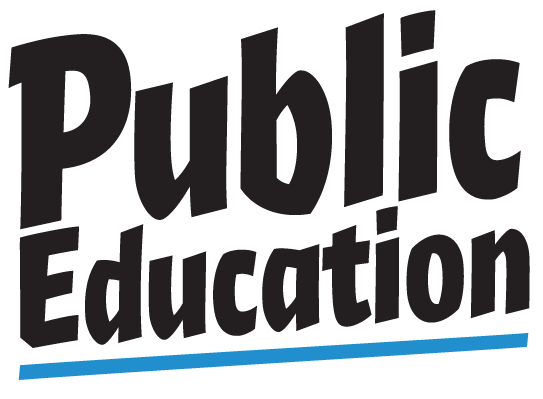
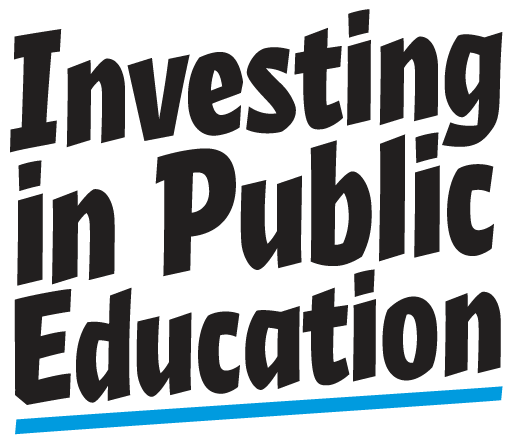
Adding Issues
• College for All
• Investing in Public Education
• Marijuana Legalization

diff --git a/src/translations/es/index.js b/src/translations/es/index.js
@@ -63,7 +63,7 @@ const localizedStrings = {
       {
         title: 'Medicare for All',
         text: [
-          oneLine(`In the 1970s, when other countries around the world had implemented or were implementing national health insurance plans, we put our health in the hands of private enterprise. Decades, and billions of lobbying dollars, later, the results are clear: the United States spends far more on healthcare than any other nation, with significantly worse outcomes — including the highest maternal mortality rate in the developed world.`),
+          oneLine(`In the 1970s, when other countries around the world had implemented or were implementing national health insurance plans, we put our health in the hands of private enterprise. Decades and billions of lobbying dollars later, the results are clear: the United States spends far more on healthcare than any other nation, with significantly worse outcomes — including the highest maternal mortality rate in the developed world.`),
           oneLine(`Executive salaries and compensation packages in the pharmaceutical and health insurance industries are astronomical, while medical bills steadfastly remain the leading cause of bankruptcy in this country. Over 30 million Americans remain uninsured, while tens of millions with coverage still face inadequate or denied care. Healthcare is a right, not a privilege, and it’s time to focus on the American people and their health over the profits of billion-dollar corporations.`),
         oneLine(`Mel supports Medicare for All — a federal universal single-payer program. No longer will our health be weighed against the balance sheets of massive corporations; with a single-payer program, all residents of the United States will be covered for their medical services, including doctor, hospital, preventive, long-term care, mental health, reproductive health care, dental, vision, prescription drug and medical supply costs. Eliminating co-pays, premiums, and deductibles means that lower- and middle-income Americans will no longer have to weigh the cost of paying for life-saving medicine against feeding their families.`)],
       },
@@ -72,9 +72,9 @@ const localizedStrings = {
 	    text: [
 	      oneLine(`Mel understands that women’s issues aren’t singular and are affected by the intersection of policy and social norms. Smart policy across multiple areas is needed to correct for the disproportionate burden our society places on women.`),
 	      oneLine(`Mel supports the unrestricted right to reproductive health care. Conservative state legislatures have stretched the boundaries of federal law and unleashed a cornucopia of impediments to make it functionally and materially impossible, if not technically illegal, to obtain essential healthcare. Mel will work to codify the protections of Roe v. Wade, and use federal legislation to protect pregnant people and healthcare workers. Mel will work to repeal the Hyde Amendment, and supports the EACH Woman Act of 2019, which aims to ensure affordable abortion coverage and care for all.`),
-		  oneLine(`Each year, women are forced to leave approximately $28.9 billion on the table, in order to take off work in order to care for aging parents. When Mel’s abuela got ill in her final year of life, his mom could not afford to take off work and juggled being a night-shift nurse with caring for her ailing parents. Mel’s desire to introduce a Golden Years Security Act was inspired by this reality, one that is not uncommon for women throughout the country.`),
-		  oneLine(`Mel worked for an organization that served formerly incarcerated women by connecting them with higher education, and maintaining wrap around services throughout their career. Mel knows that the challenges currently and formerly incarcerated women face are unique, which is why his Criminal Justice Reform positions aim to address the unique needs women face in our broken system.`),
-		  oneLine(`As technological innovation continues to rapidly reshape the modern workforce, the jobs that are most likely to be replaced by automation first are those most often held by women and people of color. That’s why Mel supports funding experiments in Universal Basic Income which would provide support as the nature of work is redefined. As a stay-at-home parent Mel knows first-hand that caretaking is an uncompensated full-time job essential to the health of our economy and society. Caretaking is meaningful labor, and should be recognized as such. While more mothers are in the labor force today than ever before, they are also spending more time on childcare as well, which is why Mel supports Universal Childcare to ease the burden on families who don’t have a choice between careers and raising a family.`),		
+		    oneLine(`Each year, women are forced to leave approximately $28.9 billion on the table, in order to take off work in order to care for aging parents. When Mel’s abuela got ill in her final year of life, his mom could not afford to take off work and juggled being a night-shift nurse with caring for her ailing parents. Mel’s desire to introduce a Golden Years Security Act was inspired by this reality, one that is not uncommon for women throughout the country.`),
+		    oneLine(`Mel worked for an organization that served formerly incarcerated women by connecting them with higher education, and maintaining wrap around services throughout their career. Mel knows that the challenges currently and formerly incarcerated women face are unique, which is why his Criminal Justice Reform positions aim to address the unique needs women face in our broken system.`),
+		    oneLine(`As technological innovation continues to rapidly reshape the modern workforce, the jobs that are most likely to be replaced by automation first are those most often held by women and people of color. That’s why Mel supports funding experiments in Universal Basic Income which would provide support as the nature of work is redefined. As a stay-at-home parent Mel knows first-hand that caretaking is an uncompensated full-time job essential to the health of our economy and society. Caretaking is meaningful labor, and should be recognized as such. While more mothers are in the labor force today than ever before, they are also spending more time on childcare as well, which is why Mel supports Universal Childcare to ease the burden on families who don’t have a choice between careers and raising a family.`),		
 	    ]
 	  },
       {
@@ -82,15 +82,23 @@ const localizedStrings = {
         text: [
           oneLine(`Rapid technological innovation has already changed American employment. Advances in automation, artificial intelligence and deep machine learning, continues to eviscerate opportunities for work and is contributing to an already-growing gig economy. As temporary, part-time, and non-traditional jobs redefine the labor market, Mel believes that we need to enable people to live better lives, not leave them to struggle with wage stagnation and income inequality.`),
           oneLine(`Investing in Universal Basic Income experiments can reduce poverty, begin to address the race and gender wealth gap, create opportunities for new types of work, and reinforce a sense of dignity in people’s lives. A basic level of financial stability gives people the freedom to leave a job that doesn’t treat them well, to pursue opportunities such as entrepreneurship, or to the freedom to choose a new, more fulfilling career that may be non-traditional. UBI is not only a necessity to prepare for the continuing transformation of work, but also for the millions of Americans who currently do not have financial security to lead happy and healthy lives.`),
-        oneLine(`As a stay at home dad and the son of a single mom, Mel understands how parenthood can be an unrecognized form of labor. He believes Universal Basic Income is a way to value all types work and Mel will only champion UBI policies that will work in tandem with existing social safety nets and increased minimum wage standards. `),
+          oneLine(`As a stay at home dad and the son of a single mom, Mel understands how parenthood can be an unrecognized form of labor. He believes Universal Basic Income is a way to value all types work and Mel will only champion UBI policies that will work in tandem with existing social safety nets and increased minimum wage standards. `),
         ]
       },
       {
-        title: 'Public Education',
+        title: 'Investing in Public Education',
+        text: [
+          oneLine(`Education is the cornerstone of our society; a quality education gives students access to opportunity and enables economic mobility. For too long, we’ve failed our public schools; Mel believes that we need to properly invest in free public education from Pre-K on up. But it’s not just about throwing money at the problem, it’s about identifying successful outcomes and investing in the people that ensure them. From increasing teacher pay, to free childcare, Mel recognizes that educational outcomes are not just about schools, they are also dependent on the ability of working-class people to provide for their families and build a good life. The ability of working-class families to live the lives they deserve has been sacrificed in favor of tax breaks for the wealthy, and disinvestment in our public schools is part of that same trend.`),
+          oneLine(`Teachers have gone on strike across the country, rallying for a deeper investment in public education. These are teachers who are underpaid, overworked, and paying for needed school supplies out of their own pockets because our country places too little value on their work and on the well-being of the children that they are educating. In 2019, we continue to see segregation in our K–12 schools, and with students of color and students in underserved areas suffering as a result. Mel believes that our teachers should be well compensated, that our underserved students deserve a deeper investment in their future, and that the income of a child’s parent, or their race, should not determine the quality of their education.`),
+          oneLine(`If elected, Mel will champion federal investment in our public schools, work to increase Title I funding to ensure underserved schools get the funding they need, fully fund the Department of Education's Office of Civil Rights, work to end student lunch debt and make sure all of our kids have the nourishment they need to learn, increase access to vital to ESL education, and fund school transportation.`),
+          oneLine(`Charter schools lack accountability and have drained funding from our public education system, having a disproportionate negative impact on communities of color. Mel supports a ban on for-profit charter schools as well as the NAACP’s moratorium on public funds being used to expand the charter system, until their impact has been fully audited. Furthermore, non-profit charter schools should comply with the same oversight requirements as public schools, increase parent involvement, and support efforts for teachers to unionize.`),
+        ]
+      },
+      {
+        title: 'College for All',
         text: [
           oneLine(`Mel believes, like the U.N. does, that education is a human right. Tuition and fees at public universities have ballooned over the past 30 years, leaving an entire generation of young people with an unfair choice: sacrifice higher education or take out tens of thousands of dollars in student debt. The promise of higher pay has created a vicious cycle in which students take out increasingly larger loans only to realize that median hourly wages for college graduates have not kept up.`),
-          oneLine(`Mel will fight for public colleges, universities, and trade schools throughout the country to be tuition-free. He also supports a one-time policy of all student debt cancellation, including both federal and private sector student loans. Mel will support legislation the requires the Department of Education to forgive loans guaranteed by the U.S. government, while the federal government directly purchases private student loan debt from private banks and lenders.`),
-        oneLine(`Mel also believes that we need to properly invest in free public education from Pre-K on up. But it’s not just about throwing money at the problem, it’s about identifying successful outcomes and investing in the people that ensure them. From increasing teacher pay, to free childcare, Mel recognizes that educational outcomes are not just about schools.`),
+          oneLine(`Mel will fight for public colleges, universities, and trade schools throughout the country to be tuition-free. He also supports a one-time policy of all student debt cancellation, including both federal and private sector student loans. Mel will support legislation the requires the Department of Education to forgive loans guaranteed by the U.S. government, while the federal government directly purchases private student loan debt from private banks and lenders.`), 
         ]
       },
       {
@@ -125,6 +133,12 @@ const localizedStrings = {
         text: [
           oneLine(`Another priority for Mel is the repeal of SESTA-FOSTA. This law was intended to address human trafficking, but in practice, has only made the situation worse by driving sex workers into the shadows while making it more difficult to combat legitimate traffickers. Sex work is work.`),
           oneLine(`Mel believes that we need to decriminalize (as opposed to legalize) sex work which has led to the disproportionate targeting and prosecution of migrant workers and those in the trans community. Repealing SESTA-FOSTA and bringing sex workers into the policymaking conversation will lead to effective human trafficking legislation that is informed by those closest to the problem, while ensuring that those who rely on selling or trading sex are not prosecuted for simply trying to survive.`),
+        ]
+      },
+      {
+        title: 'Marijuana Legalization',
+        text: [
+          oneLine(`Mel fully supports legalizing marijuana and vacating and expunging all past marijuana-related convictions. Legalized marijuana revenue should be reinvested in the communities that have been most adversely impacted by the War on Drugs and racist broken windows policing. African-Americans are four times as likely to get arrested for marijuana as white Americans, despite both populations having similar rates of marijuana use. This has been a tool of mass incarceration, and a boon to the prison industrial complex. Corporations have profited off of the destruction of lives and communities through the criminalization of marijuana, and are now looking to profit off of its legalization. Impacted communities should be the first to benefit from legalization and the first in line to receive licenses and small business loans.`),
         ]
       },
       {

diff --git a/src/templates/issue-page.js b/src/templates/issue-page.js
@@ -14,9 +14,11 @@ import Women_bug from '../img/content/policies/Policy-Women.png'
 import UBI_bug from '../img/content/policies/Policy-UBI.png'
 import Banking_bug from '../img/content/policies/Policy-Banking.png'
 import Campaigns_bug from '../img/content/policies/Policy-CampaignFin.png'
+import College_bug from '../img/content/policies/Policy-College.png'
 import Education_bug from '../img/content/policies/Policy-Education.png'
 import Justice_bug from '../img/content/policies/Policy-Justice.png'
 import LGBT_bug from '../img/content/policies/Policy-LGBT.png'
+import Marijuana_bug from '../img/content/policies/Policy-Marijuana.png'
 import Peace_bug from '../img/content/policies/Policy-Peace.png'
 import Immigration_bug from '../img/content/policies/Policy-Immigration.png'
 import Privacy_bug from '../img/content/policies/Policy-Privacy.png'
@@ -62,7 +64,7 @@ const issuesDefaults = [
     id: 'm4a',
     bugurl: M4A_bug,
     text: [
-      oneLine(`In the 1970s, when other countries around the world had implemented or were implementing national health insurance plans, we put our health in the hands of private enterprise. Decades, and billions of lobbying dollars, later, the results are clear: the United States spends far more on healthcare than any other nation, with significantly worse outcomes — including the highest maternal mortality rate in the developed world.`),
+      oneLine(`In the 1970s, when other countries around the world had implemented or were implementing national health insurance plans, we put our health in the hands of private enterprise. Decades and billions of lobbying dollars later, the results are clear: the United States spends far more on healthcare than any other nation, with significantly worse outcomes — including the highest maternal mortality rate in the developed world.`),
       oneLine(`Executive salaries and compensation packages in the pharmaceutical and health insurance industries are astronomical, while medical bills steadfastly remain the leading cause of bankruptcy in this country. Over 30 million Americans remain uninsured, while tens of millions with coverage still face inadequate or denied care. Healthcare is a right, not a privilege, and it’s time to focus on the American people and their health over the profits of billion-dollar corporations.`),
 	  oneLine(`Mel supports Medicare for All — a federal universal single-payer program. No longer will our health be weighed against the balance sheets of massive corporations; with a single-payer program, all residents of the United States will be covered for their medical services, including doctor, hospital, preventive, long-term care, mental health, reproductive health care, dental, vision, prescription drug and medical supply costs. Eliminating co-pays, premiums, and deductibles means that lower- and middle-income Americans will no longer have to weigh the cost of paying for life-saving medicine against feeding their families.`),
     ]
@@ -90,13 +92,23 @@ const issuesDefaults = [
     ]
   },
   {
-    title: 'Public Education',
-    id: 'Edu',
+    title: 'Investing in Public Education',
+    id: 'Education',
     bugurl: Education_bug,
+    text: [
+      oneLine(`Education is the cornerstone of our society; a quality education gives students access to opportunity and enables economic mobility. For too long, we’ve failed our public schools; Mel believes that we need to properly invest in free public education from Pre-K on up. But it’s not just about throwing money at the problem, it’s about identifying successful outcomes and investing in the people that ensure them. From increasing teacher pay, to free childcare, Mel recognizes that educational outcomes are not just about schools, they are also dependent on the ability of working-class people to provide for their families and build a good life. The ability of working-class families to live the lives they deserve has been sacrificed in favor of tax breaks for the wealthy, and disinvestment in our public schools is part of that same trend.`),
+      oneLine(`Teachers have gone on strike across the country, rallying for a deeper investment in public education. These are teachers who are underpaid, overworked, and paying for needed school supplies out of their own pockets because our country places too little value on their work and on the well-being of the children that they are educating. In 2019, we continue to see segregation in our K–12 schools, and with students of color and students in underserved areas suffering as a result. Mel believes that our teachers should be well compensated, that our underserved students deserve a deeper investment in their future, and that the income of a child’s parent, or their race, should not determine the quality of their education.`),
+      oneLine(`If elected, Mel will champion federal investment in our public schools, work to increase Title I funding to ensure underserved schools get the funding they need, fully fund the Department of Education's Office of Civil Rights, work to end student lunch debt and make sure all of our kids have the nourishment they need to learn, increase access to vital to ESL education, and fund school transportation.`),
+      oneLine(`Charter schools lack accountability and have drained funding from our public education system, having a disproportionate negative impact on communities of color. Mel supports a ban on for-profit charter schools as well as the NAACP’s moratorium on public funds being used to expand the charter system, until their impact has been fully audited. Furthermore, non-profit charter schools should comply with the same oversight requirements as public schools, increase parent involvement, and support efforts for teachers to unionize.`),
+    ]
+  },
+  {
+    title: 'College for All',
+    id: 'College',
+    bugurl: College_bug,
     text: [
       oneLine(`Mel believes, like the U.N. does, that education is a human right. Tuition and fees at public universities have ballooned over the past 30 years, leaving an entire generation of young people with an unfair choice: sacrifice higher education or take out tens of thousands of dollars in student debt. The promise of higher pay has created a vicious cycle in which students take out increasingly larger loans only to realize that median hourly wages for college graduates have not kept up.`),
       oneLine(`Mel will fight for public colleges, universities, and trade schools throughout the country to be tuition-free. He also supports a one-time policy of all student debt cancellation, including both federal and private sector student loans. Mel will support legislation the requires the Department of Education to forgive loans guaranteed by the U.S. government, while the federal government directly purchases private student loan debt from private banks and lenders.`),
-	  oneLine(`Mel also believes that we need to properly invest in free public education from Pre-K on up. But it’s not just about throwing money at the problem, it’s about identifying successful outcomes and investing in the people that ensure them. From increasing teacher pay, to free childcare, Mel recognizes that educational outcomes are not just about schools.`),
     ]
   },
   {
@@ -139,6 +151,14 @@ const issuesDefaults = [
     text: [
       oneLine(`Another priority for Mel is the repeal of SESTA-FOSTA. This law was intended to address human trafficking, but in practice, has only made the situation worse by driving sex workers into the shadows while making it more difficult to combat legitimate traffickers. Sex work is work.`),
       oneLine(`Mel believes that we need to decriminalize (as opposed to legalize) sex work which has led to the disproportionate targeting and prosecution of migrant workers and those in the trans community. Repealing SESTA-FOSTA and bringing sex workers into the policymaking conversation will lead to effective human trafficking legislation that is informed by those closest to the problem, while ensuring that those who rely on selling or trading sex are not prosecuted for simply trying to survive.`),
+    ]
+  },
+  {
+  title: 'Marijuana Legalization',
+    id: 'Marijuana',
+    bugurl: Marijuana_bug,
+    text: [
+      oneLine(`Mel fully supports legalizing marijuana and vacating and expunging all past marijuana-related convictions. Legalized marijuana revenue should be reinvested in the communities that have been most adversely impacted by the War on Drugs and racist broken windows policing. African-Americans are four times as likely to get arrested for marijuana as white Americans, despite both populations having similar rates of marijuana use. This has been a tool of mass incarceration, and a boon to the prison industrial complex. Corporations have profited off of the destruction of lives and communities through the criminalization of marijuana, and are now looking to profit off of its legalization. Impacted communities should be the first to benefit from legalization and the first in line to receive licenses and small business loans.`),
     ]
   },
   {
